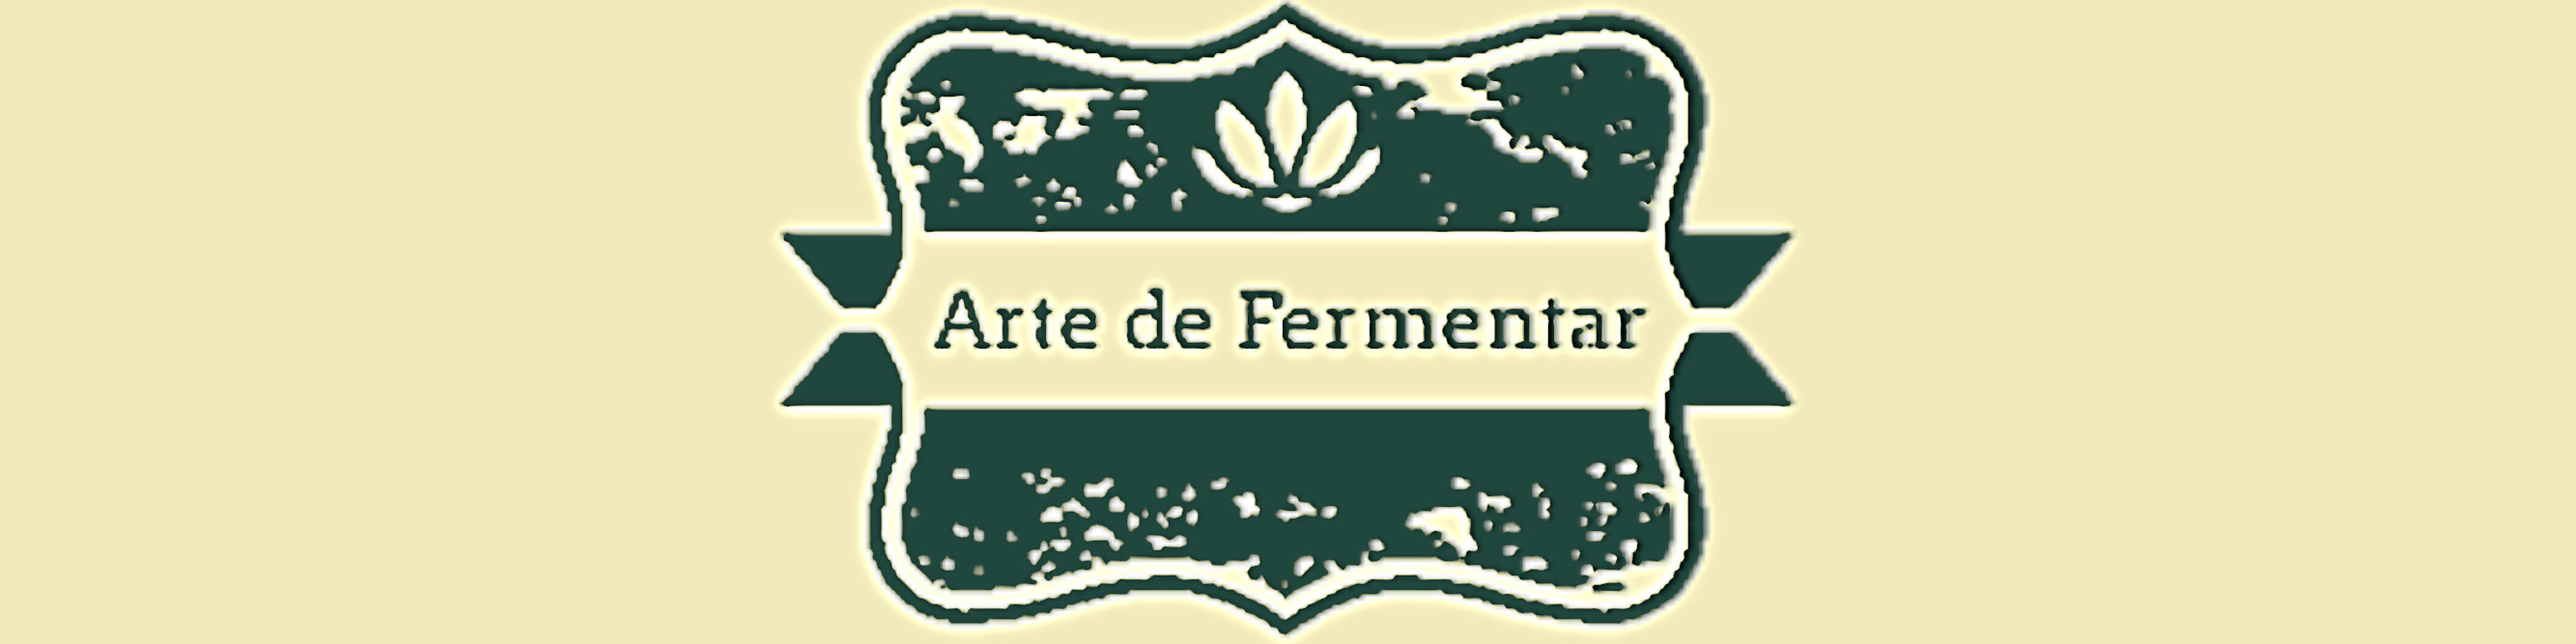
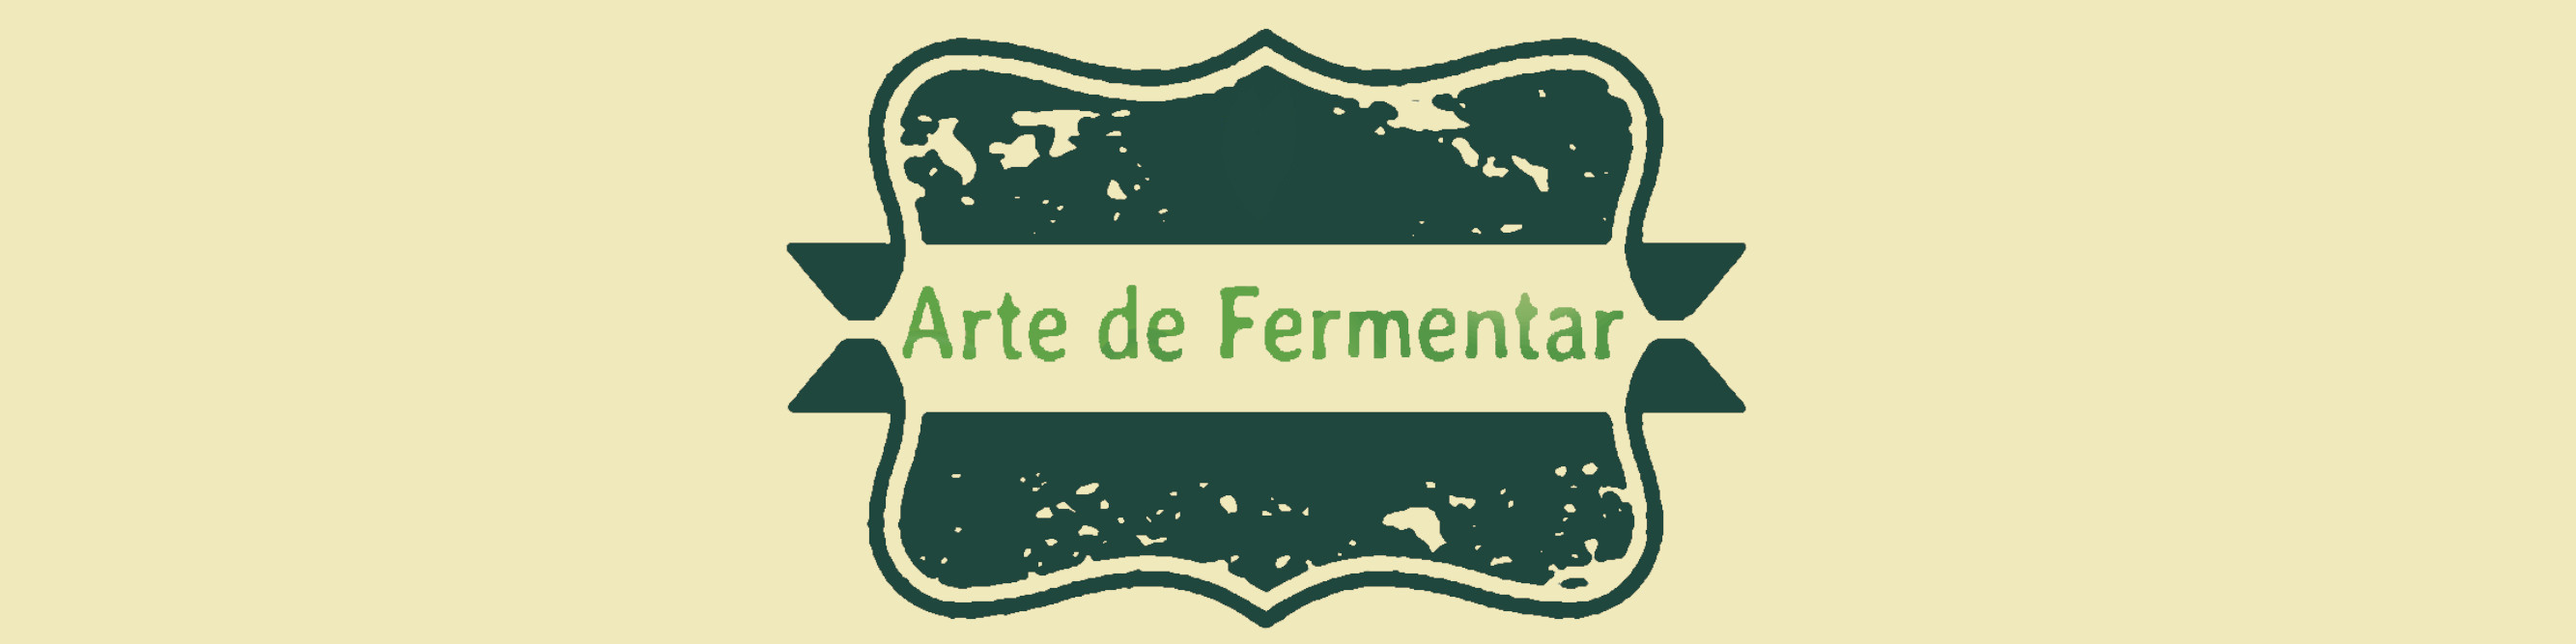
ok

Changed region(s): [[0.2801, 0.0, 0.7158, 0.9895]]

diff --git a/index.html b/index.html
@@ -20,7 +20,7 @@
             <input type="checkbox" id="nav-check">
             <div class="nav-header">
                 <div class="nav-title">
-                    <img src="../artedefermentar/img/logo2.png">
+                    <img src="../artedefermentar/img/logo.png">
                 </div>
             </div>
             <div class="nav-btn">
@@ -66,29 +66,29 @@
 
                 <div class="product-card">
                     <img src="../artedefermentar/img/product1.png" alt="Product Name" class="product-image">
-                    <h3 class="product-name">Product Name</h3>
-                    <p class="product-description">Product Description</p>
+                    <h3 class="product-name">Cenoura e Oregano</h3>
+                    <p class="product-description">Sal e Oregano fresco.</p>
                     <div class="product-price">R$99.99</div>
-                    <button class="add-to-cart-button">Add to Cart</button>
+                    <button class="add-to-cart-button">Carrinho</button>
                 </div>
 
                 <div class="product-card">
                     <img src="../artedefermentar/img/product2.png" alt="Product Name" class="product-image">
-                    <h3 class="product-name">Product Name</h3>
-                    <p class="product-description">Product Description</p>
+                    <h3 class="product-name">Chucrute e Brocolis</h3>
+                    <p class="product-description">Chucrute de Repolho Branco</p>
                     <div class="product-price">
                         <span class="original-price">R$99.99</span>
                         <span class="discount-price">R$79.99</span>
                     </div>
-                    <button class="add-to-cart-button">Add to Cart</button>
+                    <button class="add-to-cart-button">Carrinho</button>
                 </div>
 
                 <div class="product-card">
                     <img src="../artedefermentar/img/product3.png" alt="Product Name" class="product-image">
-                    <h3 class="product-name">Product Name</h3>
-                    <p class="product-description">Product Description</p>
+                    <h3 class="product-name">Vegetais e Especiarias</h3>
+                    <p class="product-description">Cenoura, Couve Flor, Repolho Roxo, Alho, Pimenta, Semente de Mostarda, Louro. </p>
                     <div class="product-price">R$99.99</div>
-                    <button class="add-to-cart-button">Add to Cart</button>
+                    <button class="add-to-cart-button">Carrinho</button>
                 </div>
 
                 <div class="product-card">
@@ -98,7 +98,7 @@
                     <div class="product-price">
                         <span class="original-price">R$99.99</span>
                         <span class="discount-price">R$79.99</span>
-                    </div> <button class="add-to-cart-button">Add to Cart</button>
+                    </div> <button class="add-to-cart-button">Carrinho</button>
                 </div>
 
                 <div class="product-card">
@@ -108,7 +108,7 @@
                     <div class="product-price">
                         <span class="original-price">R$99.99</span>
                         <span class="discount-price">R$79.99</span>
-                    </div> <button class="add-to-cart-button">Add to Cart</button>
+                    </div> <button class="add-to-cart-button">Carrinho</button>
                 </div>
 
                 <div class="product-card">
@@ -118,7 +118,7 @@
                     <div class="product-price">
                         <span class="original-price">R$99.99</span>
                         <span class="discount-price">R$79.99</span>
-                    </div> <button class="add-to-cart-button">Add to Cart</button>
+                    </div> <button class="add-to-cart-button">Carrinho</button>
                 </div>
 
                 <div class="product-card">
@@ -128,7 +128,7 @@
                     <div class="product-price">
                         <span class="original-price">R$99.99</span>
                         <span class="discount-price">R$79.99</span>
-                    </div> <button class="add-to-cart-button">Add to Cart</button>
+                    </div> <button class="add-to-cart-button">Carrinho</button>
                 </div>
 
                 <div class="product-card">
@@ -138,7 +138,7 @@
                     <div class="product-price">
                         <span class="original-price">R$99.99</span>
                         <span class="discount-price">R$79.99</span>
-                    </div> <button class="add-to-cart-button">Add to Cart</button>
+                    </div> <button class="add-to-cart-button">Carrinho</button>
                 </div>
 
                 <div class="product-card">
@@ -148,7 +148,7 @@
                     <div class="product-price">
                         <span class="original-price">R$99.99</span>
                         <span class="discount-price">R$79.99</span>
-                    </div> <button class="add-to-cart-button">Add to Cart</button>
+                    </div> <button class="add-to-cart-button">Carrinho</button>
                 </div>
 
                 <div class="product-card">
@@ -158,7 +158,7 @@
                     <div class="product-price">
                         <span class="original-price">R$99.99</span>
                         <span class="discount-price">R$79.99</span>
-                    </div> <button class="add-to-cart-button">Add to Cart</button>
+                    </div> <button class="add-to-cart-button">Carrinho</button>
                 </div>
 
                 <div class="product-card">
@@ -168,7 +168,7 @@
                     <div class="product-price">
                         <span class="original-price">R$99.99</span>
                         <span class="discount-price">R$79.99</span>
-                    </div> <button class="add-to-cart-button">Add to Cart</button>
+                    </div> <button class="add-to-cart-button">Carrinho</button>
                 </div>
 
                 <div class="product-card">
@@ -178,7 +178,7 @@
                     <div class="product-price">
                         <span class="original-price">R$99.99</span>
                         <span class="discount-price">R$79.99</span>
-                    </div> <button class="add-to-cart-button">Add to Cart</button>
+                    </div> <button class="add-to-cart-button">Carrinho</button>
                 </div>
 
             </div>

diff --git a/css/navbar.css b/css/navbar.css
@@ -33,7 +33,7 @@
 
 .nav > .nav-links > a {
     display: inline-block;
-    padding: 2em;
+    padding: 1.5em;
     text-decoration: none;
     color: #000000;
 }
